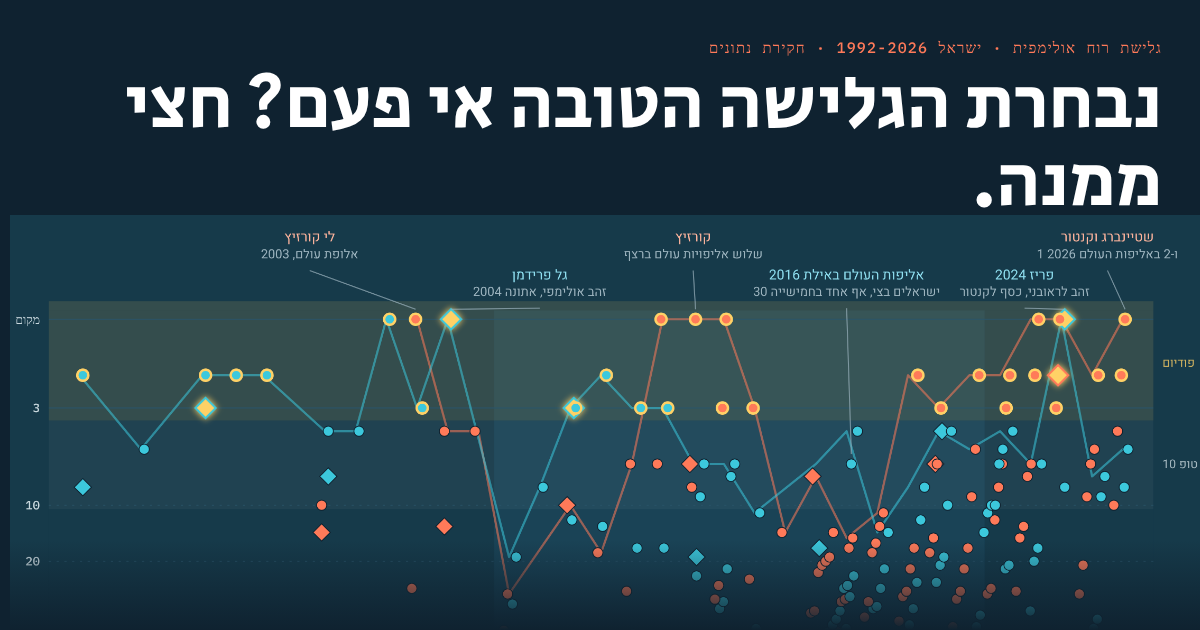
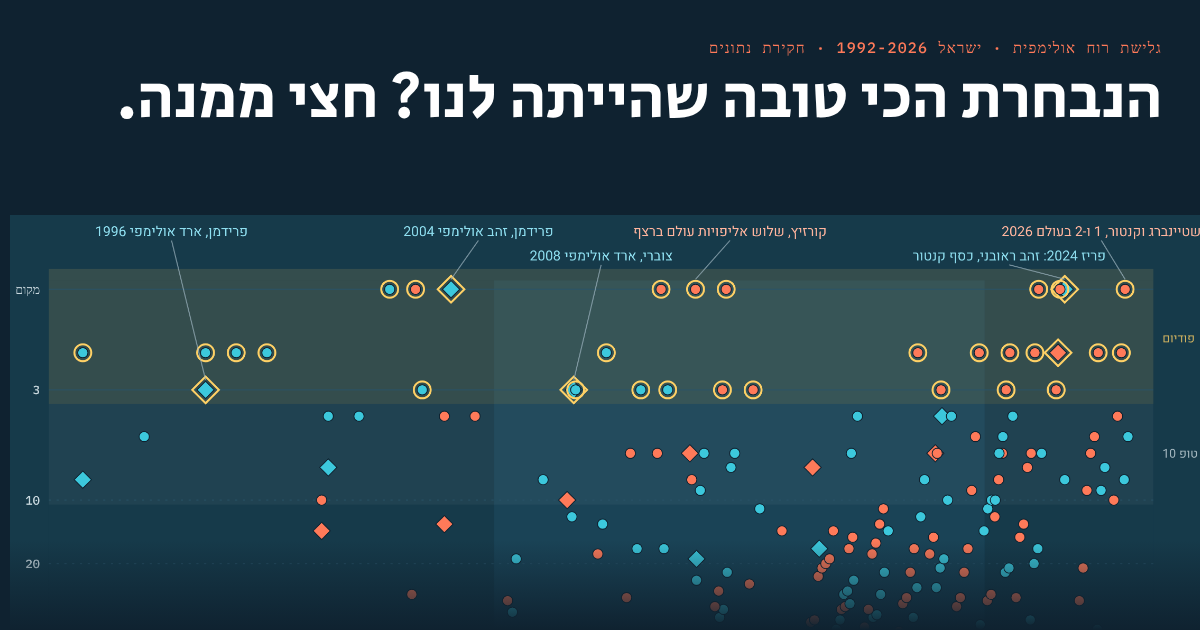
Windsurf: new title, English home row and card, Hebrew share preview
Claude-Session: https://claude.ai/code/session_01H9f7ujNMNZmpTYvVykntiK

diff --git a/windsurf/index.html b/windsurf/index.html
@@ -3,18 +3,18 @@
 <head>
 <meta charset="utf-8">
 <meta name="viewport" content="width=device-width,initial-scale=1">
-<title>נבחרת הגלישה הטובה אי פעם? חצי ממנה.</title>
+<title>הנבחרת הכי טובה שהייתה לנו? חצי ממנה.</title>
 <meta name="description" content="האם נבחרת גלישת הרוח של ישראל טובה היום יותר מאי פעם? 1,224 תוצאות מ-1992 ועד היום, מגל פרידמן ועד תמר שטיינברג. התשובה: כן לנשים, לא לגברים, והסיבה מפתיעה.">
 <link rel="canonical" href="https://backyonatan-alt.github.io/windsurf/">
 <meta property="og:type" content="article">
 <meta property="og:url" content="https://backyonatan-alt.github.io/windsurf/">
-<meta property="og:title" content="נבחרת הגלישה הטובה אי פעם? חצי ממנה.">
+<meta property="og:title" content="הנבחרת הכי טובה שהייתה לנו? חצי ממנה.">
 <meta property="og:description" content="האם נבחרת גלישת הרוח של ישראל טובה היום יותר מאי פעם? 1,224 תוצאות מ-1992 ועד היום, מגל פרידמן ועד תמר שטיינברג. התשובה: כן לנשים, לא לגברים, והסיבה מפתיעה.">
 <meta property="og:image" content="https://backyonatan-alt.github.io/windsurf/preview.png">
 <meta property="og:image:width" content="1200"><meta property="og:image:height" content="630">
 <meta property="og:locale" content="he_IL">
 <meta name="twitter:card" content="summary_large_image">
-<meta name="twitter:title" content="נבחרת הגלישה הטובה אי פעם? חצי ממנה.">
+<meta name="twitter:title" content="הנבחרת הכי טובה שהייתה לנו? חצי ממנה.">
 <meta name="twitter:description" content="האם נבחרת גלישת הרוח של ישראל טובה היום יותר מאי פעם? 1,224 תוצאות מ-1992 ועד היום, מגל פרידמן ועד תמר שטיינברג. התשובה: כן לנשים, לא לגברים, והסיבה מפתיעה.">
 <meta name="twitter:image" content="https://backyonatan-alt.github.io/windsurf/preview.png">
 <meta name="theme-color" content="#0f2230">
@@ -150,7 +150,7 @@ td a{font-family:var(--mono);font-size:12px}
 <body>
 <header class="hero"><div class="hero-in">
   <div class="top"><a class="back" href="../">&larr; All stories</a><span class="eyebrow">גלישת רוח אולימפית · ישראל 1992-2026 · חקירת נתונים</span></div>
-  <h1>נבחרת הגלישה הטובה אי פעם? חצי ממנה.</h1>
+  <h1>הנבחרת הכי טובה שהייתה לנו? חצי ממנה.</h1>
   <p class="lede">זהב וכסף באולימפיאדת פריז. שלוש ישראליות בצמרת אליפות העולם. כולם אומרים שזו נבחרת הגלישה הכי טובה שהייתה לנו. כדי לבדוק אם זה נכון אספתי <span id="nRows2">1224</span> תוצאות, מגל פרידמן ועד תמר שטיינברג, ובניתי עמוד שאפשר ללחוץ ולבדוק בו הכל. התשובה: תלוי את מי שואלים.</p>
   <figure class="stage" id="tlStage">
     <div class="ctl" id="tlCtl">

diff --git a/index.html b/index.html
@@ -75,8 +75,8 @@ p{margin:0;max-width:60ch}
       <div><h2>Frequent Flyers</h2><span>An NBA team flies 45,000 miles a season. Watch all 30 do it on one animated map, then see what the miles actually cost.</span><b>Open &rarr;</b></div>
     </a>
     <a class="card" href="windsurf/">
-      <img src="windsurf/preview.png" alt="Title card in Hebrew: the best team ever? half of it. Every Israeli windsurfing result since 1992 on one chart" width="1200" height="630">
-      <div><h2 lang="he" dir="rtl">נבחרת הגלישה הטובה איהנבחרת הטובה אי&nbsp;פעם? חצי&nbsp;ממנה.nbsp;פעם? חציהנבחרת הטובה אי&nbsp;פעם? חצי&nbsp;ממנה.nbsp;ממנה.</h2><span>Is Israel's windsurfing team better than ever? 1,224 results since 1992 say yes for the women, no for the men. In Hebrew.</span><b>Open &rarr;</b></div>
+      <img src="windsurf/card.png" alt="Title card: The Best Team Ever? Half of It. Every Israeli windsurfing result since 1992 on one chart" width="1200" height="630">
+      <div><h2>The Best Team Ever? Half of It.</h2><span>Israel's Olympic windsurfers, 1992-2026: best ever for the women, not for the men. 1,224 results, one chart. In Hebrew.</span><b>Open &rarr;</b></div>
     </a>
   </div>
 </main>

diff --git a/src/windsurf/page.html b/src/windsurf/page.html
@@ -126,7 +126,7 @@ td a{font-family:var(--mono);font-size:12px}
 
 <header class="hero"><div class="hero-in">
   <div class="top"><a class="back" href="#top">&larr; All stories</a><span class="eyebrow">גלישת רוח אולימפית · ישראל 1992-2026 · חקירת נתונים</span></div>
-  <h1>נבחרת הגלישה הטובה אי פעם? חצי ממנה.</h1>
+  <h1>הנבחרת הכי טובה שהייתה לנו? חצי ממנה.</h1>
   <p class="lede">זהב וכסף באולימפיאדת פריז. שלוש ישראליות בצמרת אליפות העולם. כולם אומרים שזו נבחרת הגלישה הכי טובה שהייתה לנו. כדי לבדוק אם זה נכון אספתי <span id="nRows2">1224</span> תוצאות, מגל פרידמן ועד תמר שטיינברג, ובניתי עמוד שאפשר ללחוץ ולבדוק בו הכל. התשובה: תלוי את מי שואלים.</p>
   <figure class="stage" id="tlStage">
     <div class="ctl" id="tlCtl">

diff --git a/src/windsurf/build.py b/src/windsurf/build.py
@@ -5,7 +5,7 @@ os.chdir(os.path.dirname(os.path.abspath(__file__)))
 page=open('page.html',encoding='utf8').read()
 page=page.replace('{{DATA}}',open('data.json',encoding='utf8').read())
 assert '{{' not in page
-T="נבחרת הגלישה הטובה אי פעם? חצי ממנה."; D="האם נבחרת גלישת הרוח של ישראל טובה היום יותר מאי פעם? 1,224 תוצאות מ-1992 ועד היום, מגל פרידמן ועד תמר שטיינברג. התשובה: כן לנשים, לא לגברים, והסיבה מפתיעה."
+T="הנבחרת הכי טובה שהייתה לנו? חצי ממנה."; D="האם נבחרת גלישת הרוח של ישראל טובה היום יותר מאי פעם? 1,224 תוצאות מ-1992 ועד היום, מגל פרידמן ועד תמר שטיינברג. התשובה: כן לנשים, לא לגברים, והסיבה מפתיעה."
 U="https://backyonatan-alt.github.io/windsurf/"
 head=f'''<!doctype html>
 <html lang="he" dir="rtl">

diff --git a/CLAUDE.md b/CLAUDE.md
@@ -12,7 +12,7 @@ Live at https://backyonatan-alt.github.io/
 | `/moneyball/`, `/moreyball/`, `/expected-goals/` | Three sports analytics articles | `src/sports/sports-analytics-by-the-numbers.html` (one combined source) | `python3 src/sports/split.py` |
 | `/dogfight/` | Dogfight Ground School (beginner's air combat guide for any flight sim, with 3D clips) | `src/dogfight/` (`page.html`, `app.js`) | `python3 src/dogfight/build.py` |
 | `/flyers/` | Frequent Flyers (NBA travel: animated route map, miles by team, does travel cost wins) | `src/flyers/` (`page.html`, `data.json`, `cost.json`, `map.json`) | `python3 src/flyers/build.py` |
-| `/windsurf/` | נבחרת הגלישה הטובה אי פעם? חצי ממנה. (Hebrew, RTL: Israel's Olympic windsurfing team 1992-2026, women vs men, depth not just medals) | `src/windsurf/` (`page.html`, `data.json`; `data/*.csv` + `prep.py` make `data.json`) | `python3 src/windsurf/build.py` |
+| `/windsurf/` | The Best Team Ever? Half of It. (Hebrew page, title הנבחרת הכי טובה שהייתה לנו? חצי ממנה., RTL: Israel's Olympic windsurfing team 1992-2026, women vs men, depth not just medals) | `src/windsurf/` (`page.html`, `data.json`; `data/*.csv` + `prep.py` make `data.json`) | `python3 src/windsurf/build.py` |
 
 Never hand-edit `cousins/index.html`, `dogfight/index.html`, `flyers/index.html`, `windsurf/index.html` or the three sports `index.html` files. They are build output and get overwritten.
 
@@ -51,7 +51,7 @@ Never hand-edit `cousins/index.html`, `dogfight/index.html`, `flyers/index.html`
 
 ## Windsurf notes
 
-- Hebrew page, `dir="rtl"`; charts are `direction:ltr` inside. Fixed dark design (same sea palette as the home page), not a dark mode. Women are coral (`--w`), men teal (`--m`), everywhere.
+- Hebrew page, `dir="rtl"`; charts are `direction:ltr` inside. The home row is in English (title, text and `windsurf/card.png`), the share preview `preview.png` is in Hebrew; both are rendered from `og.html` / `og-en.html` in the windsurf working folder with Playwright. Fixed dark design (same sea palette as the home page), not a dark mode. Women are coral (`--w`), men teal (`--m`), everywhere.
 - Data: `src/windsurf/data/*.csv` per `SCHEMA.md` (one row per Israeli per event, plus coverage rows: full / partial / none / not_held). `prep.py` merges name spellings (`ALIAS`), adds Hebrew names (`HEB`) and writes `data.json`; it prints any athlete without a Hebrew name. `analyze.py` prints the per-cycle tables.
 - Seven chapters, no chapter numbers. Coverage and caveats (entries vs finishers in 2022-2025, Eilat 2016 silver fleet, 2012, Reuveny 41st) live as two bullets in the methodology section; the full results table is collapsed behind a `<details>`. Youth chapter shows counts, plus the youth-to-senior conversion finding (7 of 33 women medalists reached a senior top 10, 4 of 40 men).
 - Charts explain themselves with legends (`.key`), not captions under the chart. Yonatan removed every caption; do not add them back. Never use the word שדה for field size, say מתחרים or תחרות.

diff --git a/README.md b/README.md
@@ -8,4 +8,4 @@ Interactive data stories.
 - [Expected Goals by the Numbers](https://backyonatan-alt.github.io/expected-goals/)
 - [Dogfight Ground School](https://backyonatan-alt.github.io/dogfight/)
 - [Frequent Flyers](https://backyonatan-alt.github.io/flyers/): an NBA season in miles, and whether the travel costs wins.
-- [נבחרת הגלישה הטובה אי פעם? חצי ממנה.](https://backyonatan-alt.github.io/windsurf/): Israel's Olympic windsurfing team since 1992, in Hebrew. Best ever for the women, not for the men.
+- [The Best Team Ever? Half of It.](https://backyonatan-alt.github.io/windsurf/): Israel's Olympic windsurfing team since 1992, in Hebrew. Best ever for the women, not for the men.
